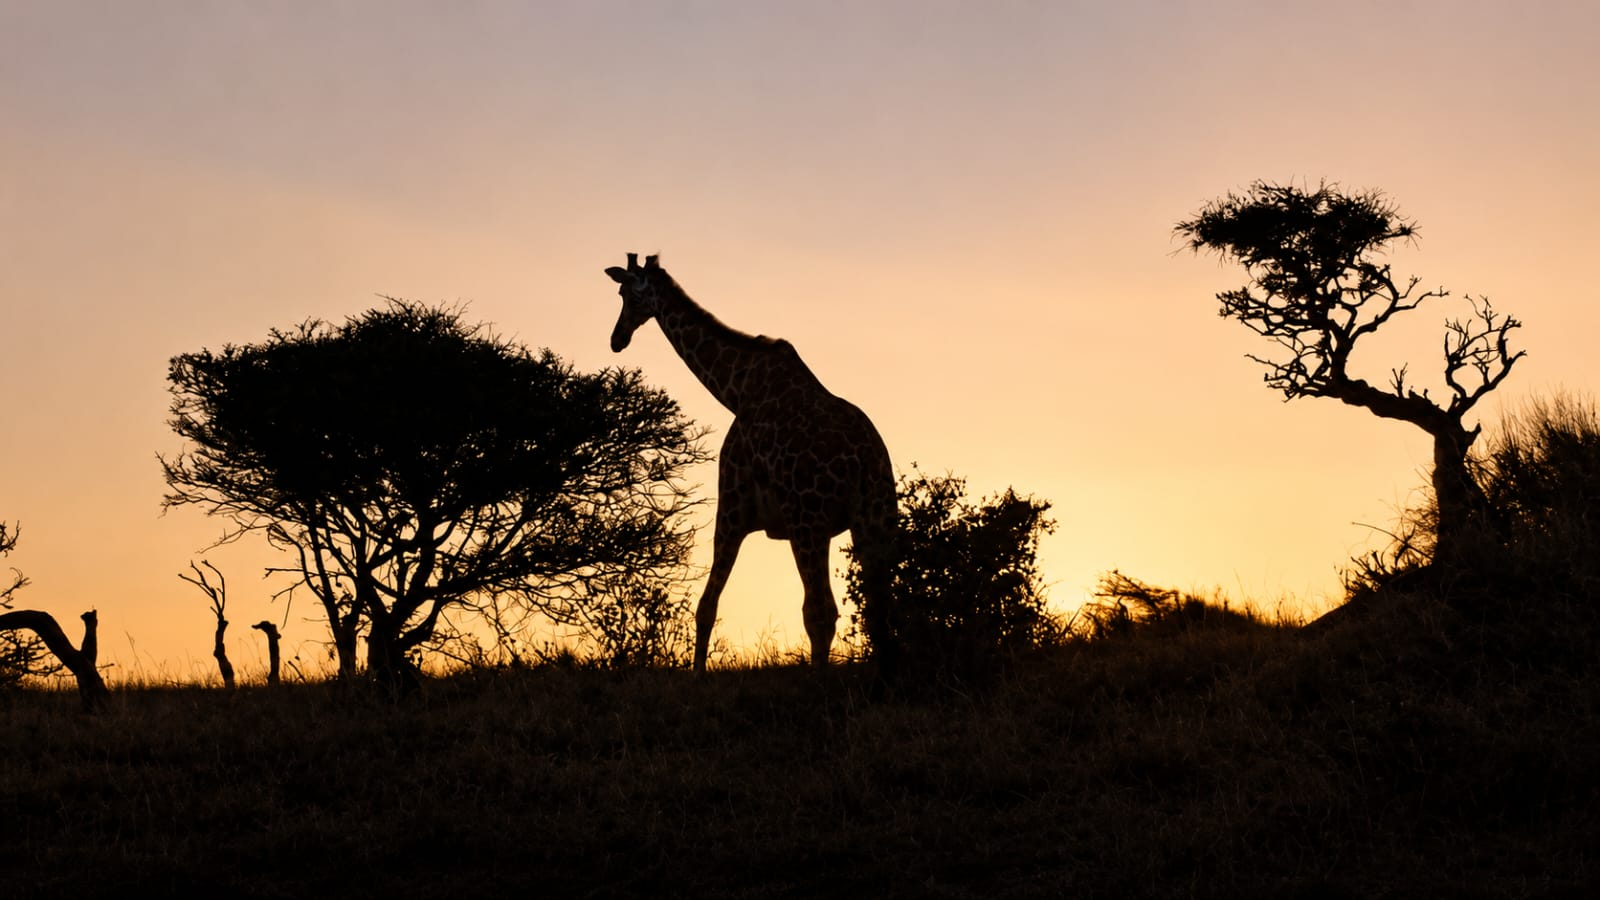
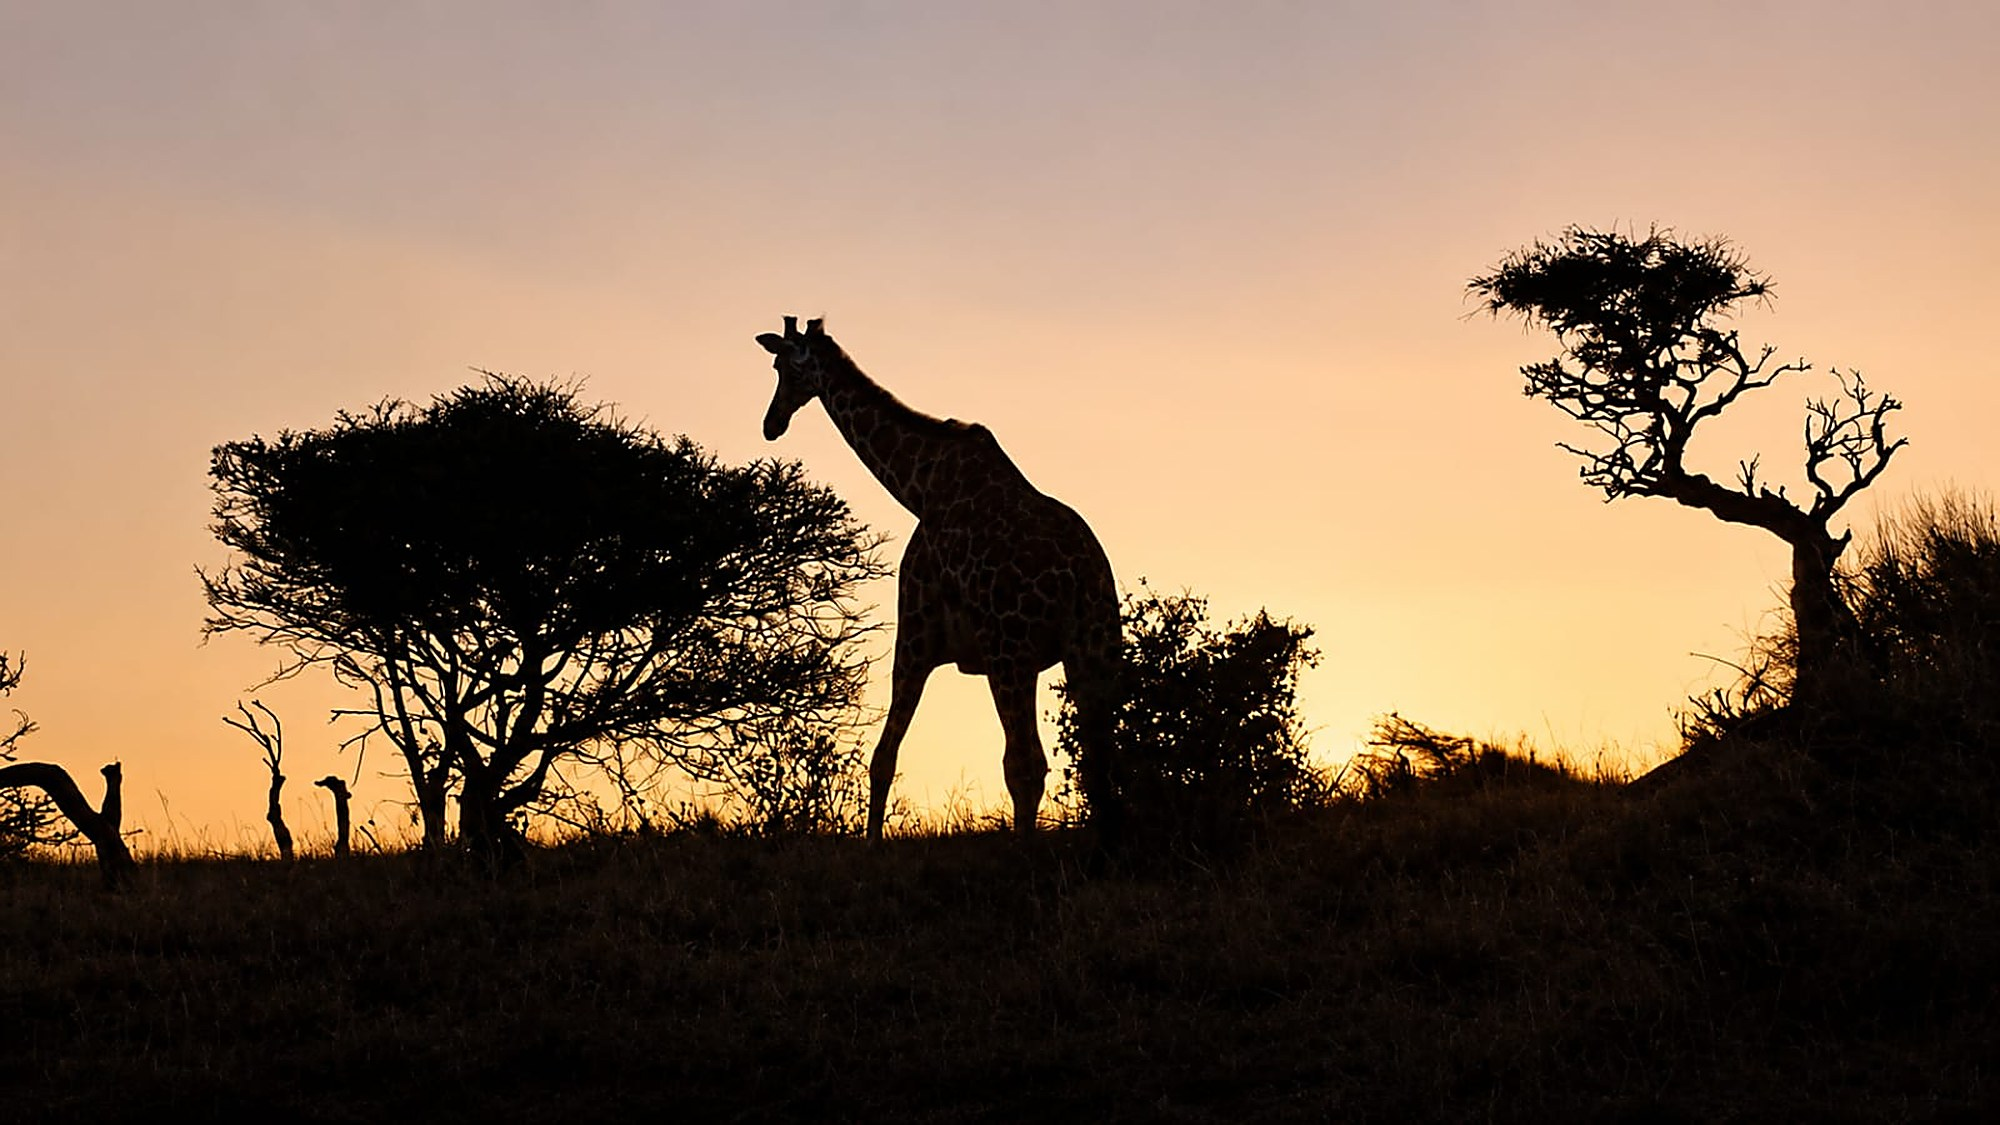
Re-master photos at full res; add 4 new gallery images
- Re-derive all 17 photos from the original full-resolution source files,
  restoring lion/kudu/p09/p12 to full frame (they were transfer-truncated)
- Upscale to 2000px long edge (Lanczos + unsharp) for crisp retina display
- Add 4 new non-duplicate photos to the gallery (two lions, dam at dusk,
  helicopter, sand river); skipped a screenshot and an exact duplicate
- Lazy-load below-the-fold images

diff --git a/index.html b/index.html
@@ -341,7 +341,7 @@ body{margin:0;background:#F3ECDC;-webkit-font-smoothing:antialiased;}
 </section>
 
 <section id="philosophy" style="position:relative;background:#22291E;padding:clamp(48px,6.5vw,88px) 32px;overflow:hidden;">
-  <img src="assets/giraffe.jpg" alt="" aria-hidden="true" style="position:absolute;inset:0;width:100%;height:100%;object-fit:cover;object-position:center 60%;opacity:.30;"/>
+  <img loading="lazy" decoding="async" src="assets/giraffe.jpg" alt="" aria-hidden="true" style="position:absolute;inset:0;width:100%;height:100%;object-fit:cover;object-position:center 60%;opacity:.30;"/>
   <div style="position:absolute;inset:0;background:linear-gradient(180deg,#22291E 0%,rgba(34,41,30,.72) 50%,#22291E 100%);"></div>
   <div style="position:relative;max-width:1320px;margin:0 auto;">
     <div data-reveal style="max-width:680px;margin-bottom:40px;">
@@ -389,7 +389,7 @@ body{margin:0;background:#F3ECDC;-webkit-font-smoothing:antialiased;}
     </div>
 
     <article data-reveal="clip" style="position:relative;margin-bottom:24px;display:grid;grid-template-columns:1.15fr 1fr;min-height:340px;background:#241B12;overflow:hidden;border-radius:2px;" data-exp2>
-      <div style="position:relative;min-height:260px;overflow:hidden;"><img src="assets/p08.jpg" data-kenburns alt="Tracking rhino on foot at dawn" style="position:absolute;inset:0;width:100%;height:100%;object-fit:cover;"/></div>
+      <div style="position:relative;min-height:260px;overflow:hidden;"><img loading="lazy" decoding="async" src="assets/p08.jpg" data-kenburns alt="Tracking rhino on foot at dawn" style="position:absolute;inset:0;width:100%;height:100%;object-fit:cover;"/></div>
       <div style="padding:clamp(34px,4vw,56px);display:flex;flex-direction:column;justify-content:center;">
         <span style="font-family:'DM Mono',monospace;font-size:10px;letter-spacing:.24em;text-transform:uppercase;color:#C9A24B;">Signature Experience</span>
         <h3 style="font-family:'Cormorant Garamond',serif;font-weight:600;font-size:clamp(28px,3vw,40px);color:#FBF7EF;margin:12px 0 14px;line-height:1.08;">Tracking Rhino on Foot, at Dawn</h3>
@@ -400,7 +400,7 @@ body{margin:0;background:#F3ECDC;-webkit-font-smoothing:antialiased;}
 
     <div style="display:grid;grid-template-columns:repeat(2,1fr);gap:24px;" data-exp2>
       <article data-reveal style="position:relative;aspect-ratio:16/11;overflow:hidden;background:#241B12;">
-        <img src="assets/lion.jpg" alt="Predator tracking" style="position:absolute;inset:0;width:100%;height:100%;object-fit:cover;"/>
+        <img loading="lazy" decoding="async" src="assets/lion.jpg" alt="Predator tracking" style="position:absolute;inset:0;width:100%;height:100%;object-fit:cover;"/>
         <div style="position:absolute;inset:0;background:linear-gradient(180deg,transparent 35%,rgba(20,15,9,.88));"></div>
         <div style="position:absolute;left:0;right:0;bottom:0;padding:34px;">
           <span style="font-family:'DM Mono',monospace;font-size:10px;letter-spacing:.22em;text-transform:uppercase;color:#C9A24B;">Big Cats</span>
@@ -409,7 +409,7 @@ body{margin:0;background:#F3ECDC;-webkit-font-smoothing:antialiased;}
         </div>
       </article>
       <article data-reveal style="position:relative;aspect-ratio:16/11;overflow:hidden;background:#241B12;">
-        <img src="assets/p03.jpg" alt="Great migration" style="position:absolute;inset:0;width:100%;height:100%;object-fit:cover;"/>
+        <img loading="lazy" decoding="async" src="assets/p03.jpg" alt="Great migration" style="position:absolute;inset:0;width:100%;height:100%;object-fit:cover;"/>
         <div style="position:absolute;inset:0;background:linear-gradient(180deg,transparent 35%,rgba(20,15,9,.88));"></div>
         <div style="position:absolute;left:0;right:0;bottom:0;padding:34px;">
           <span style="font-family:'DM Mono',monospace;font-size:10px;letter-spacing:.22em;text-transform:uppercase;color:#C9A24B;">Seasonal</span>
@@ -418,7 +418,7 @@ body{margin:0;background:#F3ECDC;-webkit-font-smoothing:antialiased;}
         </div>
       </article>
       <article data-reveal style="position:relative;aspect-ratio:16/11;overflow:hidden;background:#241B12;">
-        <img src="assets/kudu.jpg" alt="Photographic safari" style="position:absolute;inset:0;width:100%;height:100%;object-fit:cover;"/>
+        <img loading="lazy" decoding="async" src="assets/kudu.jpg" alt="Photographic safari" style="position:absolute;inset:0;width:100%;height:100%;object-fit:cover;"/>
         <div style="position:absolute;inset:0;background:linear-gradient(180deg,transparent 35%,rgba(20,15,9,.88));"></div>
         <div style="position:absolute;left:0;right:0;bottom:0;padding:34px;">
           <span style="font-family:'DM Mono',monospace;font-size:10px;letter-spacing:.22em;text-transform:uppercase;color:#C9A24B;">Light &amp; Patience</span>
@@ -427,7 +427,7 @@ body{margin:0;background:#F3ECDC;-webkit-font-smoothing:antialiased;}
         </div>
       </article>
       <article data-reveal style="position:relative;aspect-ratio:16/11;overflow:hidden;background:#241B12;">
-        <img src="assets/p12.jpg" alt="Conservation safari" style="position:absolute;inset:0;width:100%;height:100%;object-fit:cover;"/>
+        <img loading="lazy" decoding="async" src="assets/p12.jpg" alt="Conservation safari" style="position:absolute;inset:0;width:100%;height:100%;object-fit:cover;"/>
         <div style="position:absolute;inset:0;background:linear-gradient(180deg,transparent 35%,rgba(20,15,9,.88));"></div>
         <div style="position:absolute;left:0;right:0;bottom:0;padding:34px;">
           <span style="font-family:'DM Mono',monospace;font-size:10px;letter-spacing:.22em;text-transform:uppercase;color:#C9A24B;">Borana</span>
@@ -538,19 +538,19 @@ body{margin:0;background:#F3ECDC;-webkit-font-smoothing:antialiased;}
     </div>
     <div style="display:grid;grid-template-columns:repeat(3,1fr);gap:28px;" data-expgrid>
       <article data-reveal style="cursor:pointer;">
-        <div style="aspect-ratio:4/3;overflow:hidden;background:#241B12;margin-bottom:20px;"><img src="assets/p06.jpg" alt="" style="width:100%;height:100%;object-fit:cover;"/></div>
+        <div style="aspect-ratio:4/3;overflow:hidden;background:#241B12;margin-bottom:20px;"><img loading="lazy" decoding="async" src="assets/p06.jpg" alt="" style="width:100%;height:100%;object-fit:cover;"/></div>
         <span style="font-family:'DM Mono',monospace;font-size:10px;letter-spacing:.2em;text-transform:uppercase;color:#B28A3F;">Field Notes · Leopard</span>
         <h3 style="font-family:'Cormorant Garamond',serif;font-weight:600;font-size:25px;margin:10px 0 8px;color:#241B12;">Why the leopard taught me patience</h3>
         <p style="font-size:15px;line-height:1.7;color:#4A3D2E;margin:0;">Hours of stillness for thirty seconds of grace, and why those seconds are worth every one of the hours.</p>
       </article>
       <article data-reveal style="cursor:pointer;">
-        <div style="aspect-ratio:4/3;overflow:hidden;background:#241B12;margin-bottom:20px;"><img src="assets/p12.jpg" alt="" style="width:100%;height:100%;object-fit:cover;"/></div>
+        <div style="aspect-ratio:4/3;overflow:hidden;background:#241B12;margin-bottom:20px;"><img loading="lazy" decoding="async" src="assets/p12.jpg" alt="" style="width:100%;height:100%;object-fit:cover;"/></div>
         <span style="font-family:'DM Mono',monospace;font-size:10px;letter-spacing:.2em;text-transform:uppercase;color:#B28A3F;">Conservation</span>
         <h3 style="font-family:'Cormorant Garamond',serif;font-weight:600;font-size:25px;margin:10px 0 8px;color:#241B12;">Evenings with the rangers</h3>
         <p style="font-size:15px;line-height:1.7;color:#4A3D2E;margin:0;">What guests learn when they ride out with the anti-poaching team, and why I bring them along.</p>
       </article>
       <article data-reveal style="cursor:pointer;">
-        <div style="aspect-ratio:4/3;overflow:hidden;background:#241B12;margin-bottom:20px;"><img src="assets/p10.jpg" alt="" style="width:100%;height:100%;object-fit:cover;"/></div>
+        <div style="aspect-ratio:4/3;overflow:hidden;background:#241B12;margin-bottom:20px;"><img loading="lazy" decoding="async" src="assets/p10.jpg" alt="" style="width:100%;height:100%;object-fit:cover;"/></div>
         <span style="font-family:'DM Mono',monospace;font-size:10px;letter-spacing:.2em;text-transform:uppercase;color:#B28A3F;">Heritage</span>
         <h3 style="font-family:'Cormorant Garamond',serif;font-weight:600;font-size:25px;margin:10px 0 8px;color:#241B12;">North to Mukogodo, where I come from</h3>
         <p style="font-size:15px;line-height:1.7;color:#4A3D2E;margin:0;">The forest that raised me, and the long road from a radio at Lewa to a guide's seat at Borana.</p>
@@ -560,7 +560,7 @@ body{margin:0;background:#F3ECDC;-webkit-font-smoothing:antialiased;}
 </section>
 
 <section id="contact" style="position:relative;background:#22291E;padding:clamp(48px,6.5vw,88px) 32px;">
-  <img src="assets/p14.jpg" alt="" aria-hidden="true" style="position:absolute;inset:0;width:100%;height:100%;object-fit:cover;opacity:.14;"/>
+  <img loading="lazy" decoding="async" src="assets/p14.jpg" alt="" aria-hidden="true" style="position:absolute;inset:0;width:100%;height:100%;object-fit:cover;opacity:.14;"/>
   <div style="position:absolute;inset:0;background:linear-gradient(180deg,#22291E,rgba(34,41,30,.85));"></div>
   <div style="position:relative;max-width:1100px;margin:0 auto;display:grid;grid-template-columns:1fr 1fr;gap:60px;" data-philo>
     <div data-reveal>
@@ -649,7 +649,11 @@ body{margin:0;background:#F3ECDC;-webkit-font-smoothing:antialiased;}
     { src:'assets/p02.jpg', title:'Tawny eagle, Rift Valley', cat:'Birdlife', story:'A favourite of mine to point out, perched and scanning. Northern Kenya holds over a thousand species of bird.' },
     { src:'assets/p09.jpg', title:'Gerenuk, Northern Kenya', cat:'Wildlife', story:'The gerenuk rises onto its hind legs to reach what others cannot, a desert antelope built for the dry country.' },
     { src:'assets/p13.jpg', title:'Greater kudu in the bush', cat:'Wildlife', story:'Half-hidden in green, watching us watch him. Read the ears and you will always know the moment before he bolts.' },
-    { src:'assets/plane.jpg', title:'Wheels down at the airstrip', cat:'Safari Moments', story:'The bush plane touching down on the conservancy strip, where most journeys into the Northern Frontier begin.' }
+    { src:'assets/plane.jpg', title:'Wheels down at the airstrip', cat:'Safari Moments', story:'The bush plane touching down on the conservancy strip, where most journeys into the Northern Frontier begin.' },
+    { src:'assets/p15.jpg', title:'Brothers in the gold', cat:'Wildlife', story:'Two coalition males holding the high grass at sundown. Where you find one, look for the other, they rarely range far apart.' },
+    { src:'assets/p16.jpg', title:'The dam at last light', cat:'Landscapes', story:'A quiet waterhole below the hills as the day cools. Sit here long enough and the whole conservancy comes down to drink.' },
+    { src:'assets/p17.jpg', title:'Wings over the frontier', cat:'Safari Moments', story:'The helicopter waiting under an acacia. For the far reaches of the Northern Frontier, sometimes the only way in is from the air.' },
+    { src:'assets/p18.jpg', title:'Down to the sand river', cat:'Landscapes', story:'The green line of a seasonal sand river cutting through the dry country, a magnet for elephant, kudu and a hundred smaller lives.' }
   ];
 
   var esc = function(s){ return String(s).replace(/[&<>"']/g, function(c){ return {'&':'&amp;','<':'&lt;','>':'&gt;','"':'&quot;',"'":'&#39;'}[c]; }); };

diff --git a/README.md b/README.md
@@ -11,8 +11,12 @@ No build step. Deploys to any static host (Vercel, Netlify, GitHub Pages) as-is.
 
 ```
 index.html        # markup, styles, and all behaviour
-assets/*.jpg      # 17 safari photographs
+assets/*.jpg      # 21 safari photographs
 ```
+
+Photos are re-mastered from the original WhatsApp-resolution files (full frame,
+upscaled with Lanczos + unsharp for sharpness on retina/large displays).
+Below-the-fold images are `loading="lazy"`.
 
 ## Run locally
 
